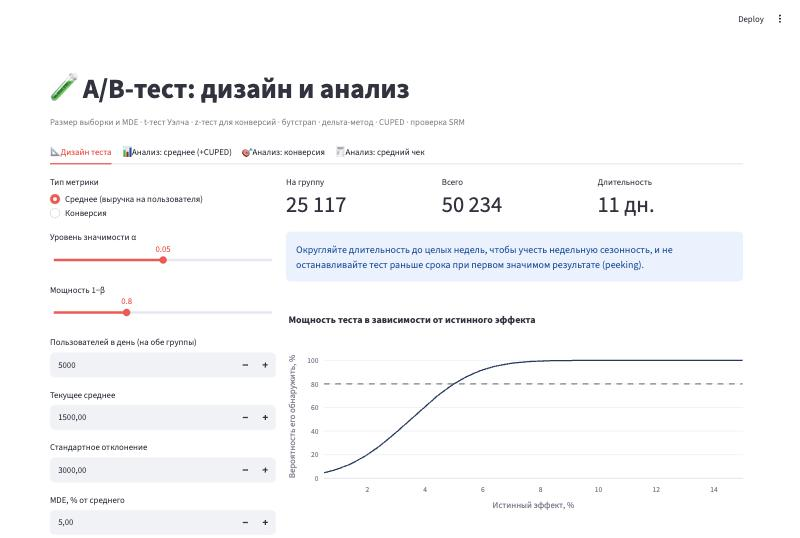
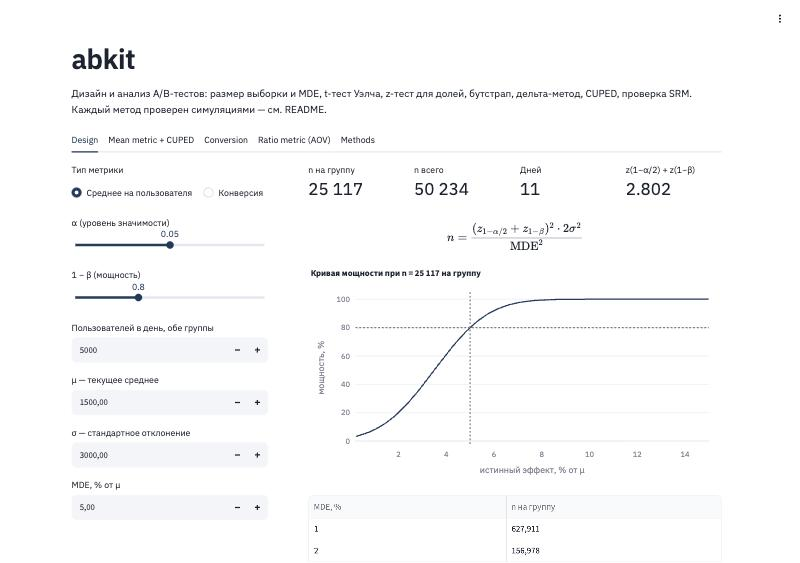
Technical UI: IBM Plex fonts, SE/statistic/df in results, methods tab; README tone

diff --git a/app.py b/app.py
@@ -5,131 +5,193 @@ import numpy as np
 import pandas as pd
 import plotly.graph_objects as go
 import streamlit as st
+from scipy.stats import norm
 
 from abkit import (bootstrap_test, cuped, delta_method_ratio, mde_means, power_means, sample_size_means,
                    sample_size_proportions, srm_check, welch_ttest, ztest_proportions)
 
-st.set_page_config(page_title="A/B-тест: дизайн и анализ", page_icon="🧪", layout="wide")
-NAVY, LIGHT = "#1f3a5f", "#9fb3c8"
+st.set_page_config(page_title="abkit — A/B test design & analysis", layout="wide")
+NAVY, LIGHT, GRID = "#1f3a5f", "#9fb3c8", "#e5e9ef"
 DEMO = Path(__file__).parent / "data" / "customer_periods.csv"
+FONT = "IBM Plex Sans, sans-serif"
+
+st.markdown("""
+<link href="https://fonts.googleapis.com/css2?family=IBM+Plex+Mono:wght@400;500&family=IBM+Plex+Sans:wght@400;500;600&display=swap" rel="stylesheet">
+<style>
+  html, body, [class*="css"], .stMarkdown, .stText, label, p, h1, h2, h3 { font-family: 'IBM Plex Sans', sans-serif !important; }
+  h1 { font-weight: 600 !important; letter-spacing: -0.5px; }
+  [data-testid="stMetricValue"], [data-testid="stDataFrame"], code, .mono { font-family: 'IBM Plex Mono', monospace !important; }
+  [data-testid="stMetricValue"] { font-size: 1.7rem; }
+  .stTabs [data-baseweb="tab"] { font-family: 'IBM Plex Mono', monospace; font-size: 0.85rem; }
+  .block-container { padding-top: 2rem; max-width: 1200px; }
+</style>
+""", unsafe_allow_html=True)
 
 
-def fmt_result(name, r, unit=""):
+def fmt_result(name, r, base=None):
+    """base — знаменатель относительного эффекта (для CUPED — исходное среднее контроля)."""
+    rel = r.effect / base if base else r.relative_effect
     return {
-        "Метод": name,
-        "Контроль": f"{r.control:,.2f}{unit}", "Тест": f"{r.treatment:,.2f}{unit}",
-        "Эффект": f"{r.effect:+,.2f}{unit} ({r.relative_effect:+.1%})",
-        "95% ДИ": f"[{r.ci_low:+,.2f}; {r.ci_high:+,.2f}]",
-        "p-value": f"{r.p_value:.4f}", "Значимо (α=0.05)": "✅ да" if r.significant else "— нет",
+        "method": name,
+        "control": f"{r.control:,.3f}", "treatment": f"{r.treatment:,.3f}",
+        "diff": f"{r.effect:+,.3f}", "rel. diff": f"{rel:+.2%}",
+        "SE": f"{r.se:,.3f}" if np.isfinite(r.se) else "—",
+        "stat": f"{r.statistic:.3f}" if np.isfinite(r.statistic) else "—",
+        "df": f"{r.dof:,.0f}" if np.isfinite(r.dof) else "—",
+        "95% CI": f"[{r.ci_low:+,.2f}, {r.ci_high:+,.2f}]",
+        "p-value": f"{r.p_value:.4f}",
+        "H0 rejected (α=0.05)": "yes" if r.significant else "no",
     }
 
 
-st.title("🧪 A/B-тест: дизайн и анализ")
-st.caption("Размер выборки и MDE · t-тест Уэлча · z-тест для конверсий · бутстрап · дельта-метод · CUPED · проверка SRM")
+def style_fig(fig, height=360):
+    fig.update_layout(template="plotly_white", height=height, font_family=FONT, margin=dict(t=50, l=50, r=20, b=40),
+                      title_font_size=14)
+    fig.update_xaxes(gridcolor=GRID); fig.update_yaxes(gridcolor=GRID)
+    return fig
 
-tab_design, tab_mean, tab_conv, tab_ratio = st.tabs(
-    ["📐 Дизайн теста", "📊 Анализ: среднее (+CUPED)", "🎯 Анализ: конверсия", "🧾 Анализ: средний чек"])
 
-# --- Дизайн ----------------------------------------------------------------------
+st.title("abkit")
+st.markdown("Дизайн и анализ A/B-тестов: размер выборки и MDE, t-тест Уэлча, z-тест для долей, бутстрап, "
+            "дельта-метод, CUPED, проверка SRM. Каждый метод проверен симуляциями — см. README.")
+
+tab_design, tab_mean, tab_conv, tab_ratio, tab_methods = st.tabs(
+    ["Design", "Mean metric + CUPED", "Conversion", "Ratio metric (AOV)", "Methods"])
+
+# --- Design --------------------------------------------------------------------------
 with tab_design:
-    c1, c2 = st.columns([1, 2])
+    c1, c2 = st.columns([1, 2], gap="large")
     with c1:
-        kind = st.radio("Тип метрики", ["Среднее (выручка на пользователя)", "Конверсия"])
-        alpha = st.select_slider("Уровень значимости α", [0.01, 0.05, 0.1], value=0.05)
-        power = st.select_slider("Мощность 1−β", [0.7, 0.8, 0.9, 0.95], value=0.8)
-        traffic = st.number_input("Пользователей в день (на обе группы)", 100, 10_000_000, 5_000, step=500)
+        kind = st.radio("Тип метрики", ["Среднее на пользователя", "Конверсия"], horizontal=True)
+        alpha = st.select_slider("α (уровень значимости)", [0.01, 0.05, 0.1], value=0.05)
+        power = st.select_slider("1 − β (мощность)", [0.7, 0.8, 0.9, 0.95], value=0.8)
+        traffic = st.number_input("Пользователей в день, обе группы", 100, 10_000_000, 5_000, step=500)
         if kind.startswith("Среднее"):
-            mean = st.number_input("Текущее среднее", value=1500.0, min_value=0.01)
-            sd = st.number_input("Стандартное отклонение", value=3000.0, min_value=0.01)
-            mde_rel = st.number_input("MDE, % от среднего", value=5.0, min_value=0.1) / 100
+            mean = st.number_input("μ — текущее среднее", value=1500.0, min_value=0.01)
+            sd = st.number_input("σ — стандартное отклонение", value=3000.0, min_value=0.01)
+            mde_rel = st.number_input("MDE, % от μ", value=5.0, min_value=0.1) / 100
             n = sample_size_means(sd, mde_rel * mean, alpha, power)
         else:
-            p = st.number_input("Текущая конверсия, %", value=10.0, min_value=0.01, max_value=99.9) / 100
-            mde_rel = st.number_input("MDE, % от конверсии (относительный)", value=5.0, min_value=0.1) / 100
+            p = st.number_input("p — текущая конверсия, %", value=10.0, min_value=0.01, max_value=99.9) / 100
+            mde_rel = st.number_input("MDE, % от p (относительный)", value=5.0, min_value=0.1) / 100
             n = sample_size_proportions(p, p * mde_rel, alpha, power)
             sd, mean = np.sqrt(p * (1 - p)), p
     with c2:
-        m1, m2, m3 = st.columns(3)
-        m1.metric("На группу", f"{n:,}".replace(",", " "))
-        m2.metric("Всего", f"{2 * n:,}".replace(",", " "))
-        m3.metric("Длительность", f"{int(np.ceil(2 * n / traffic))} дн.")
-        st.info("Округляйте длительность до целых недель, чтобы учесть недельную сезонность, "
-                "и не останавливайте тест раньше срока при первом значимом результате (peeking).")
-        effects = np.linspace(0.005, 3 * mde_rel, 120)
+        m1, m2, m3, m4 = st.columns(4)
+        m1.metric("n на группу", f"{n:,}".replace(",", " "))
+        m2.metric("n всего", f"{2 * n:,}".replace(",", " "))
+        m3.metric("Дней", f"{int(np.ceil(2 * n / traffic))}")
+        m4.metric("z(1−α/2) + z(1−β)", f"{norm.ppf(1 - alpha / 2) + norm.ppf(power):.3f}")
+        if kind.startswith("Среднее"):
+            st.latex(r"n = \frac{(z_{1-\alpha/2} + z_{1-\beta})^2 \cdot 2\sigma^2}{\text{MDE}^2}")
+        else:
+            st.latex(r"n = \frac{(z_{1-\alpha/2} + z_{1-\beta})^2 \cdot \left[p_1(1-p_1) + p_2(1-p_2)\right]}{(p_2 - p_1)^2}")
+        effects = np.linspace(0.002, 3 * mde_rel, 150)
         fig = go.Figure(go.Scatter(x=100 * effects, y=[100 * power_means(sd, e * mean, n, alpha) for e in effects],
-                                   line_color=NAVY))
-        fig.add_hline(y=100 * power, line_dash="dash", line_color="grey")
-        fig.update_layout(title="Мощность теста в зависимости от истинного эффекта", template="plotly_white",
-                          xaxis_title="Истинный эффект, %", yaxis_title="Вероятность его обнаружить, %", height=380)
-        st.plotly_chart(fig, use_container_width=True)
+                                   line=dict(color=NAVY, width=2), name="power"))
+        fig.add_hline(y=100 * power, line_dash="dot", line_color="grey")
+        fig.add_vline(x=100 * mde_rel, line_dash="dot", line_color="grey")
+        fig.update_layout(title=f"Кривая мощности при n = {n:,} на группу".replace(",", " "),
+                          xaxis_title="истинный эффект, % от μ", yaxis_title="мощность, %")
+        st.plotly_chart(style_fig(fig), use_container_width=True)
+        grid = [0.01, 0.02, 0.03, 0.05, 0.1]
+        st.dataframe(pd.DataFrame({"MDE, %": [f"{100 * g:.0f}" for g in grid],
+                                   "n на группу": [f"{(sample_size_means(sd, g * mean, alpha, power) if kind.startswith('Среднее') else sample_size_proportions(mean, mean * g, alpha, power)):,}" for g in grid]}),
+                     hide_index=True)
 
-# --- Анализ среднего ---------------------------------------------------------------
+# --- Mean metric ----------------------------------------------------------------------
 with tab_mean:
-    st.markdown("CSV с колонками **group** (A/B), **value** (метрика на пользователя) и, по желанию, "
-                "**pre_value** (та же метрика до теста — для CUPED).")
-    src = st.radio("Данные", ["Демо: реальная выручка клиентов (UCI Online Retail II)", "Загрузить CSV"],
+    st.markdown("CSV: `group` (A/B), `value` — метрика на пользователя, `pre_value` — та же метрика "
+                "до теста (необязательно, нужна для CUPED).")
+    src = st.radio("Данные", ["Демо: выручка 4 239 клиентов, UCI Online Retail II", "Загрузить CSV"],
                    horizontal=True)
+    d = None
     if src.startswith("Демо"):
-        uplift = st.slider("Добавить эффект в группу B, %", 0, 50, 25)
-        seed = st.number_input("Случайное разбиение (seed)", 0, 10_000, 7)
+        c1, c2 = st.columns(2)
+        uplift = c1.slider("Эффект, добавляемый в группу B, %", 0, 50, 25)
+        seed = c2.number_input("seed разбиения", 0, 10_000, 7)
         d = pd.read_csv(DEMO)
         rng = np.random.default_rng(int(seed))
         d["group"] = np.where(rng.random(len(d)) < 0.5, "A", "B")
         d["value"] = d["revenue"] * np.where(d["group"] == "B", 1 + uplift / 100, 1)
         d["pre_value"] = d["pre_revenue"]
     else:
-        f = st.file_uploader("CSV-файл", type="csv")
-        d = pd.read_csv(f) if f else None
+        f = st.file_uploader("CSV", type="csv")
+        if f:
+            d = pd.read_csv(f)
     if d is not None:
         a, b = d[d.group == "A"], d[d.group == "B"]
         srm_p = srm_check(len(a), len(b))
-        (st.error if srm_p < 0.001 else st.success)(
-            f"SRM-проверка: A = {len(a):,}, B = {len(b):,}, p-value = {srm_p:.4f}"
-            + (" — сплит нарушен, результатам доверять нельзя!" if srm_p < 0.001 else " — сплит в порядке"))
-        rows = [fmt_result("t-тест Уэлча", welch_ttest(a.value, b.value)),
-                fmt_result("Бутстрап (среднее)", bootstrap_test(a.value, b.value, n_boot=3000)),
-                fmt_result("Бутстрап (медиана)", bootstrap_test(a.value, b.value, stat=np.median, n_boot=3000))]
+        m1, m2, m3, m4 = st.columns(4)
+        m1.metric("n_A", f"{len(a):,}".replace(",", " "))
+        m2.metric("n_B", f"{len(b):,}".replace(",", " "))
+        m3.metric("SRM p-value", f"{srm_p:.4f}")
         if "pre_value" in d:
             cu = cuped(a.value, a.pre_value, b.value, b.pre_value)
-            rows.append(fmt_result("t-тест + CUPED", welch_ttest(cu.y_a, cu.y_b)))
-            st.caption(f"CUPED: θ = {cu.theta:.3f}, дисперсия метрики снизилась на {cu.variance_reduction:.1%}")
+            m4.metric("CUPED: Var reduction", f"{cu.variance_reduction:.1%}")
+        if srm_p < 0.001:
+            st.error("SRM: фактический сплит не соответствует 50/50 (p < 0.001). Результаты теста недостоверны.")
+        rows = [fmt_result("Welch t-test", welch_ttest(a.value, b.value)),
+                fmt_result("Bootstrap, mean", bootstrap_test(a.value, b.value, n_boot=3000)),
+                fmt_result("Bootstrap, median", bootstrap_test(a.value, b.value, stat=np.median, n_boot=3000))]
+        if "pre_value" in d:
+            rows.append(fmt_result(f"Welch + CUPED (θ = {cu.theta:.3f})", welch_ttest(cu.y_a, cu.y_b), base=a.value.mean()))
+            st.caption(f"Средняя метрика до теста: A = {a.pre_value.mean():,.1f}, B = {b.pre_value.mean():,.1f}. "
+                       "Если группы различались ещё до эксперимента, обычный t-тест смещён в конкретной реализации "
+                       "разбиения, а CUPED это компенсирует.")
         st.dataframe(pd.DataFrame(rows), hide_index=True, use_container_width=True)
         fig = go.Figure()
         for g, color in (("A", LIGHT), ("B", NAVY)):
-            fig.add_histogram(x=np.log1p(d.loc[d.group == g, "value"]), name=g, marker_color=color, opacity=0.7)
-        fig.update_layout(barmode="overlay", template="plotly_white", height=320,
-                          title="Распределение метрики (log(1 + x))", xaxis_title="log(1 + value)")
-        st.plotly_chart(fig, use_container_width=True)
+            fig.add_histogram(x=np.log1p(d.loc[d.group == g, "value"]), name=g, marker_color=color, opacity=0.7,
+                              nbinsx=60)
+        fig.update_layout(barmode="overlay", title="Распределение log(1 + value) по группам",
+                          xaxis_title="log(1 + value)", yaxis_title="пользователей")
+        st.plotly_chart(style_fig(fig, 300), use_container_width=True)
 
-# --- Конверсия ---------------------------------------------------------------------
+# --- Conversion ----------------------------------------------------------------------
 with tab_conv:
     c1, c2 = st.columns(2)
-    n_a = c1.number_input("Пользователей в A", 1, value=20_000)
-    x_a = c1.number_input("Конверсий в A", 0, value=2_000)
-    n_b = c2.number_input("Пользователей в B", 1, value=20_000)
-    x_b = c2.number_input("Конверсий в B", 0, value=2_150)
+    n_a = c1.number_input("n_A", 1, value=20_000)
+    x_a = c1.number_input("conversions_A", 0, value=2_000)
+    n_b = c2.number_input("n_B", 1, value=20_000)
+    x_b = c2.number_input("conversions_B", 0, value=2_150)
     if x_a <= n_a and x_b <= n_b:
         r = ztest_proportions(x_a, n_a, x_b, n_b)
-        st.dataframe(pd.DataFrame([fmt_result("z-тест для долей", r)]), hide_index=True, use_container_width=True)
-        st.caption(f"SRM p-value: {srm_check(n_a, n_b):.4f}")
-
-# --- Средний чек ---------------------------------------------------------------------
-with tab_ratio:
-    st.markdown("Средний чек = выручка / заказы. Если рандомизировали **пользователей**, заказы одного "
-                "пользователя зависимы, и t-тест по отдельным заказам занижает дисперсию. "
-                "Нужен **дельта-метод**. CSV: **group**, **revenue**, **orders** (по пользователям).")
-    f = st.file_uploader("CSV-файл", type="csv", key="ratio")
-    if f is None and st.checkbox("Использовать демо (реальные клиенты, A/A-разбиение)", value=True):
-        d = pd.read_csv(DEMO).query("orders > 0")
-        d["group"] = np.where(np.random.default_rng(1).random(len(d)) < 0.5, "A", "B")
-    elif f is not None:
-        d = pd.read_csv(f)
+        st.dataframe(pd.DataFrame([fmt_result("Two-proportion z-test", r)]), hide_index=True, use_container_width=True)
+        st.caption(f"z-статистика по pooled-оценке p, 95% CI по unpooled SE. SRM p-value = {srm_check(n_a, n_b):.4f}")
     else:
-        d = None
+        st.warning("Число конверсий не может превышать число пользователей.")
+
+# --- Ratio metric ----------------------------------------------------------------------
+with tab_ratio:
+    st.markdown("Средний чек = Σ revenue / Σ orders. Единица рандомизации — пользователь, поэтому заказы внутри "
+                "пользователя зависимы, и t-тест по заказам занижает SE. CSV: `group`, `revenue`, `orders`.")
+    f = st.file_uploader("CSV", type="csv", key="ratio")
+    d = None
+    if f is not None:
+        d = pd.read_csv(f)
+    elif st.checkbox("Демо: реальные клиенты, A/A-разбиение", value=True):
+        d = pd.read_csv(DEMO).query("orders > 0").copy()
+        d["group"] = np.where(np.random.default_rng(1).random(len(d)) < 0.5, "A", "B")
     if d is not None:
         a, b = d[d.group == "A"], d[d.group == "B"]
         r = delta_method_ratio(a.revenue, a.orders, b.revenue, b.orders)
-        st.dataframe(pd.DataFrame([fmt_result("Дельта-метод", r)]), hide_index=True, use_container_width=True)
+        st.dataframe(pd.DataFrame([fmt_result("Delta method", r)]), hide_index=True, use_container_width=True)
+
+# --- Methods ---------------------------------------------------------------------------
+with tab_methods:
+    st.markdown("**Welch t-test.** Не предполагает равенства дисперсий; степени свободы — по формуле Уэлча–Саттертуэйта.")
+    st.latex(r"t = \frac{\bar{Y}_B - \bar{Y}_A}{\sqrt{s_A^2/n_A + s_B^2/n_B}}")
+    st.markdown("**Delta method** для отношения R = X̄ / Ȳ (числитель и знаменатель на пользователя):")
+    st.latex(r"\operatorname{Var}(\hat R) \approx \frac{1}{n}\left(\frac{\sigma_X^2}{\mu_Y^2} - "
+             r"\frac{2\mu_X \sigma_{XY}}{\mu_Y^3} + \frac{\mu_X^2 \sigma_Y^2}{\mu_Y^4}\right)")
+    st.markdown("**CUPED.** X — значение метрики до эксперимента. θ и X̄ оцениваются по объединённой выборке, "
+                "поэтому оценка эффекта несмещённая; дисперсия снижается в (1 − ρ²) раз.")
+    st.latex(r"Y' = Y - \theta\,(X - \bar{X}), \qquad \theta = \frac{\operatorname{Cov}(X, Y)}{\operatorname{Var}(X)}")
+    st.markdown("**SRM.** Хи-квадрат тест на соответствие фактических размеров групп плановому сплиту; "
+                "при p < 0.001 результаты теста не интерпретируются.")
+    st.markdown("**Bootstrap.** 3 000 ресемплингов с возвращением в каждой группе; 95% CI — перцентильный, "
+                "p-value — удвоенная доля бутстрап-разниц по другую сторону от нуля.")
 
 st.divider()
-st.caption("Исходный код и проверка методов симуляциями: github.com/juggler14/ab-testing-toolkit")
+st.caption("github.com/juggler14/ab-testing-toolkit")

diff --git a/abkit/analysis.py b/abkit/analysis.py
@@ -13,6 +13,9 @@ class TestResult:
     ci_low: float           # 95% ДИ для разницы
     ci_high: float
     p_value: float
+    se: float = float("nan")         # стандартная ошибка разницы
+    statistic: float = float("nan")  # t- или z-статистика
+    dof: float = float("nan")        # степени свободы (для t-теста)
 
     @property
     def relative_effect(self) -> float:
@@ -27,7 +30,8 @@ def _z_result(m_a: float, m_b: float, se: float, alpha: float) -> TestResult:
     diff = m_b - m_a
     z = diff / se
     q = stats.norm.ppf(1 - alpha / 2)
-    return TestResult(m_a, m_b, diff, diff - q * se, diff + q * se, float(2 * stats.norm.sf(abs(z))))
+    return TestResult(m_a, m_b, diff, diff - q * se, diff + q * se, float(2 * stats.norm.sf(abs(z))),
+                      se=float(se), statistic=float(z))
 
 
 def welch_ttest(a, b, alpha: float = 0.05) -> TestResult:
@@ -39,7 +43,8 @@ def welch_ttest(a, b, alpha: float = 0.05) -> TestResult:
     diff = b.mean() - a.mean()
     q = stats.t.ppf(1 - alpha / 2, dof)
     p = 2 * stats.t.sf(abs(diff / se), dof)
-    return TestResult(a.mean(), b.mean(), diff, diff - q * se, diff + q * se, float(p))
+    return TestResult(a.mean(), b.mean(), diff, diff - q * se, diff + q * se, float(p),
+                      se=float(se), statistic=float(diff / se), dof=float(dof))
 
 
 def ztest_proportions(conv_a: int, n_a: int, conv_b: int, n_b: int, alpha: float = 0.05) -> TestResult:
@@ -49,7 +54,8 @@ def ztest_proportions(conv_a: int, n_a: int, conv_b: int, n_b: int, alpha: float
     se_pool = np.sqrt(p_pool * (1 - p_pool) * (1 / n_a + 1 / n_b))
     se = np.sqrt(p_a * (1 - p_a) / n_a + p_b * (1 - p_b) / n_b)
     res = _z_result(p_a, p_b, se, alpha)
-    res.p_value = float(2 * stats.norm.sf(abs((p_b - p_a) / se_pool)))
+    res.statistic = float((p_b - p_a) / se_pool)
+    res.p_value = float(2 * stats.norm.sf(abs(res.statistic)))
     return res
 
 
@@ -63,7 +69,8 @@ def bootstrap_test(a, b, stat=np.mean, n_boot: int = 5000, alpha: float = 0.05, 
     lo, hi = np.quantile(diffs, [alpha / 2, 1 - alpha / 2])
     # p-value: удвоенная доля бутстрап-разниц по «другую сторону» от нуля
     p = 2 * min((diffs <= 0).mean(), (diffs >= 0).mean())
-    return TestResult(float(stat(a)), float(stat(b)), float(stat(b) - stat(a)), float(lo), float(hi), float(min(p, 1.0)))
+    return TestResult(float(stat(a)), float(stat(b)), float(stat(b) - stat(a)), float(lo), float(hi), float(min(p, 1.0)),
+                      se=float(diffs.std(ddof=1)))
 
 
 def _ratio_mean_var(num, den):

diff --git a/README.md b/README.md
@@ -1,16 +1,16 @@
-# Инструмент для дизайна и анализа A/B-тестов
+# abkit — дизайн и анализ A/B-тестов
 
-Python-библиотека `abkit` и веб-приложение на Streamlit: расчёт размера выборки и MDE, t-тест Уэлча, z-тест для конверсий, бутстрап, дельта-метод для метрик-отношений, CUPED и проверка SRM. Каждый метод проверен **симуляциями**, а CUPED — ещё и на **реальной выручке 4 239 клиентов** онлайн-ритейлера.
+Python-библиотека и Streamlit-приложение: размер выборки и MDE, t-тест Уэлча, z-тест для долей, бутстрап, дельта-метод для метрик-отношений, CUPED, проверка SRM. Корректность методов проверена симуляциями (A/A-тесты, мощность, peeking), CUPED — также на выручке 4 239 клиентов из UCI Online Retail II.
 
 **Стек:** Python · NumPy · SciPy · pandas · Streamlit · Plotly · pytest
 
-![Приложение](reports/figures/app_design.jpg)
+![Анализ](reports/figures/app_analysis.jpg)
 
 ---
 
-## Главные результаты
+## Результаты проверки
 
-| Проверка | Результат | Вывод |
+| Проверка | Результат | Интерпретация |
 |---|---|---|
 | 10 000 A/A-тестов | ложных срабатываний **4,9%** (95% ДИ 4,5–5,3%) | t-тест Уэлча держит заявленный α = 5% даже на логнормальной выручке |
 | Мощность при расчётном n | **78%** при плане 80% | формула размера выборки работает; небольшое расхождение — следствие тяжёлого хвоста распределения |
@@ -29,11 +29,15 @@ Python-библиотека `abkit` и веб-приложение на Streamli
 
 ![CUPED](reports/figures/cuped_power.png)
 
-**Пример, почему это важно.** При одном из разбиений (seed = 7 в приложении) в группу A случайно попали более «богатые» клиенты: их выручка до теста — £2 212 против £1 713 в B. Обычный t-тест видит эффект всего **+2,4% (p = 0,87)**, хотя на самом деле он +25%. CUPED учитывает историю клиентов и восстанавливает **+27% (p = 0,0007)**.
+**Отдельная реализация разбиения (seed = 7, скриншот выше).** Средняя выручка до теста в группах различается случайно: £2 212 в A против £1 713 в B. При заложенном эффекте +25% t-тест Уэлча оценивает его в +2,4% (SE = 266, p = 0,87). С CUPED (θ = 0,873) оценка +27,2% (SE = 141, p = 0,0007): поправка на предпериод убирает дисбаланс групп и вдвое сужает доверительный интервал.
 
 ### A/A-тесты
 
 ![A/A](reports/figures/aa_pvalues.png)
+
+### Дизайн теста
+
+![Дизайн](reports/figures/app_design.jpg)
 
 ## Что внутри
 
@@ -41,7 +45,7 @@ Python-библиотека `abkit` и веб-приложение на Streamli
 |---|---|
 | `abkit/design.py` | `sample_size_means`, `sample_size_proportions`, `mde_means`, `power_means` |
 | `abkit/analysis.py` | `welch_ttest`, `ztest_proportions`, `bootstrap_test`, `delta_method_ratio`, `cuped`, `srm_check` |
-| `app.py` | Streamlit-приложение: дизайн теста, анализ среднего (+CUPED), конверсии и среднего чека |
+| `app.py` | Streamlit-приложение: дизайн теста, анализ среднего (+CUPED), конверсии и среднего чека, описание методов |
 | `simulations/run_simulations.py` | все проверки из таблицы выше → `reports/simulation_results.json` |
 | `tests/` | 9 юнит-тестов: сверка со SciPy и с учебными значениями размера выборки |
 | `data/customer_periods.csv` | выручка и заказы 4 239 клиентов до и во время «эксперимента» (выгрузка SQL-запросом `data/customer_periods.sql` из проекта [retail-rfm-cohort-analysis](https://github.com/juggler14/retail-rfm-cohort-analysis)) |
@@ -57,7 +61,7 @@ cu = cuped(y_a, x_a, y_b, x_b)                    # x — та же метрик
 print(cu.variance_reduction, welch_ttest(cu.y_a, cu.y_b).p_value)
 ```
 
-## Методология кратко
+## Методы
 
 - **Размер выборки:** n = (z₁₋α/₂ + z₁₋β)² · 2σ² / MDE² на группу.
 - **t-тест Уэлча** вместо классического t-теста: не требует равенства дисперсий.
